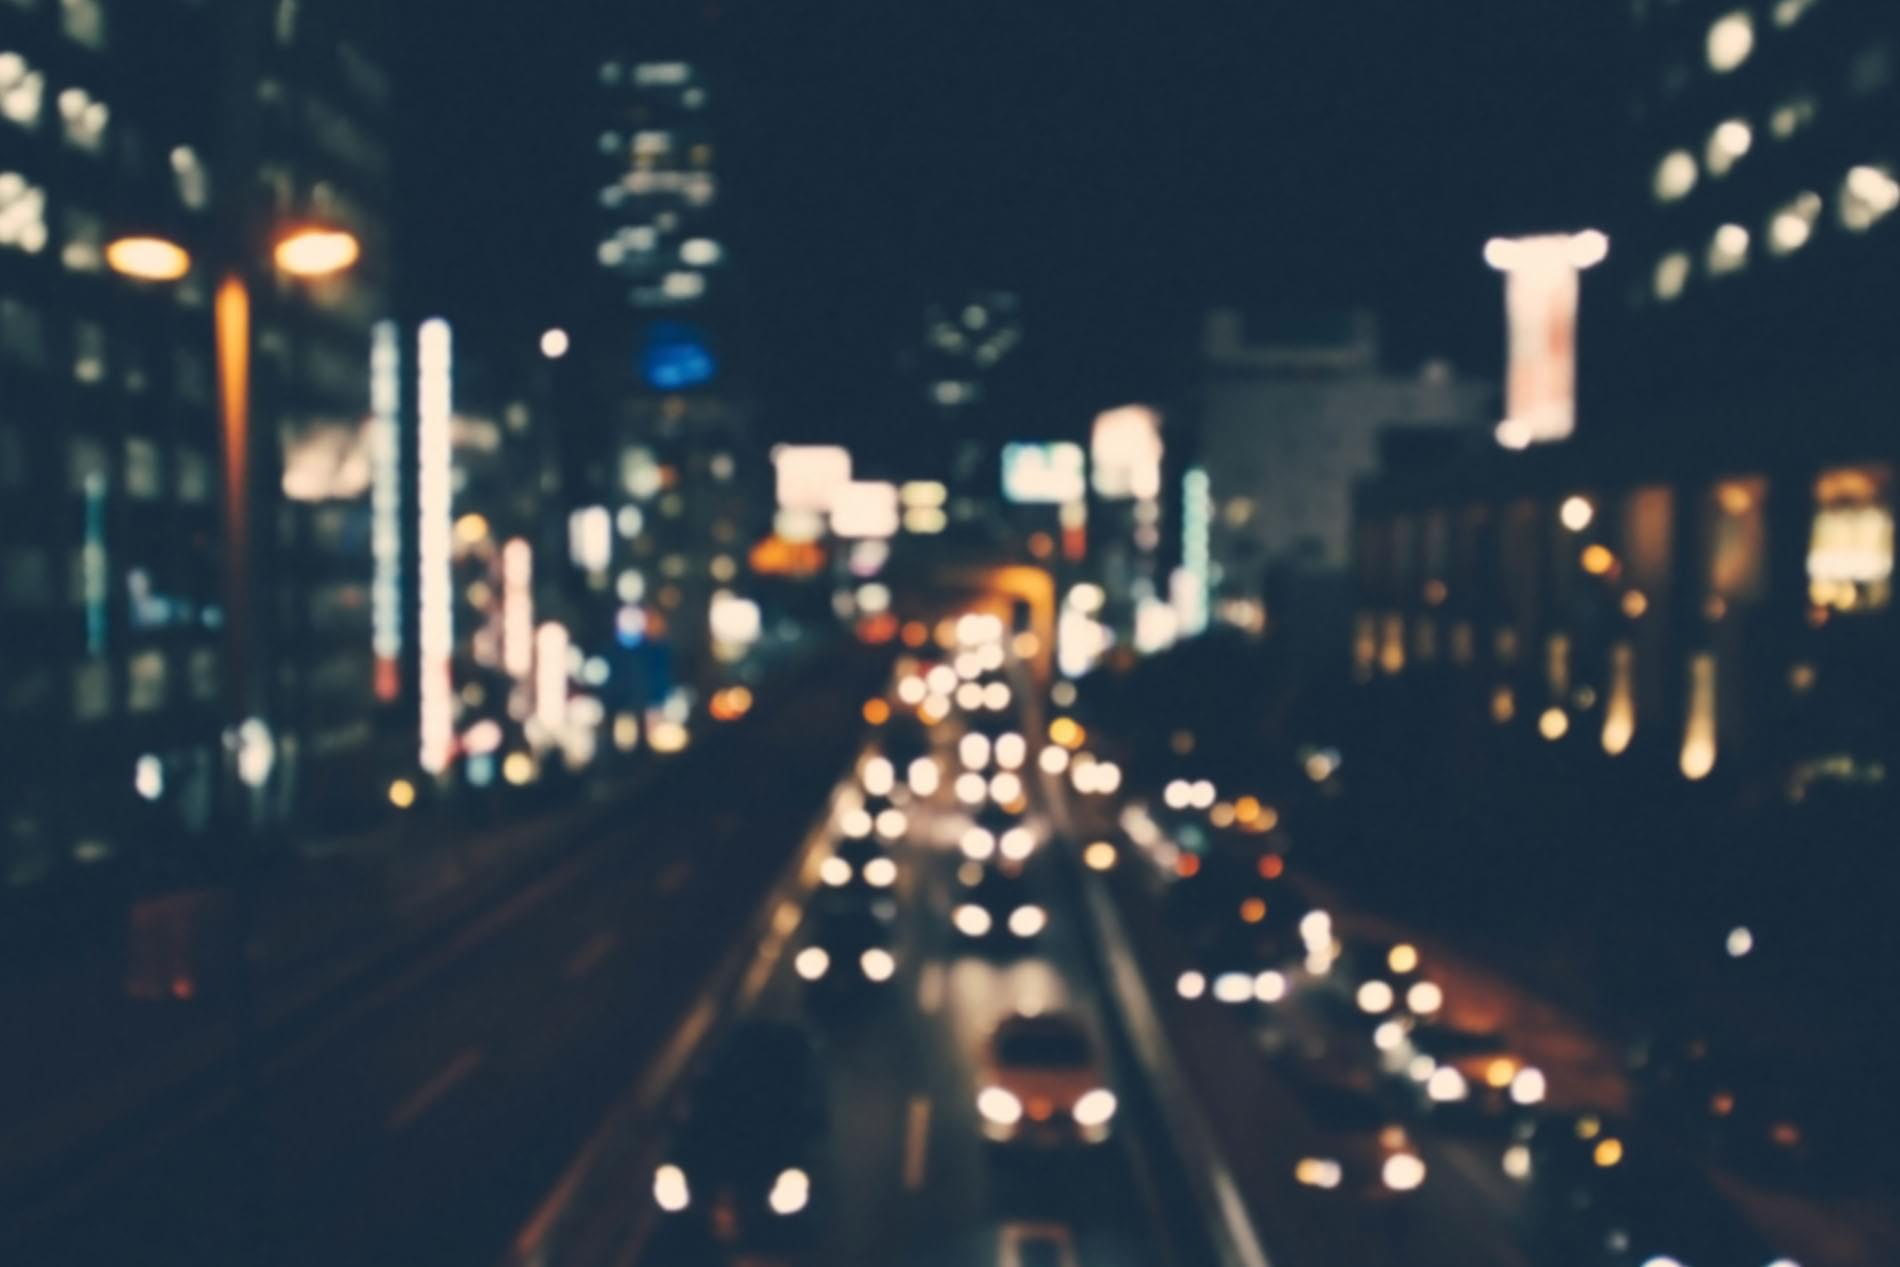
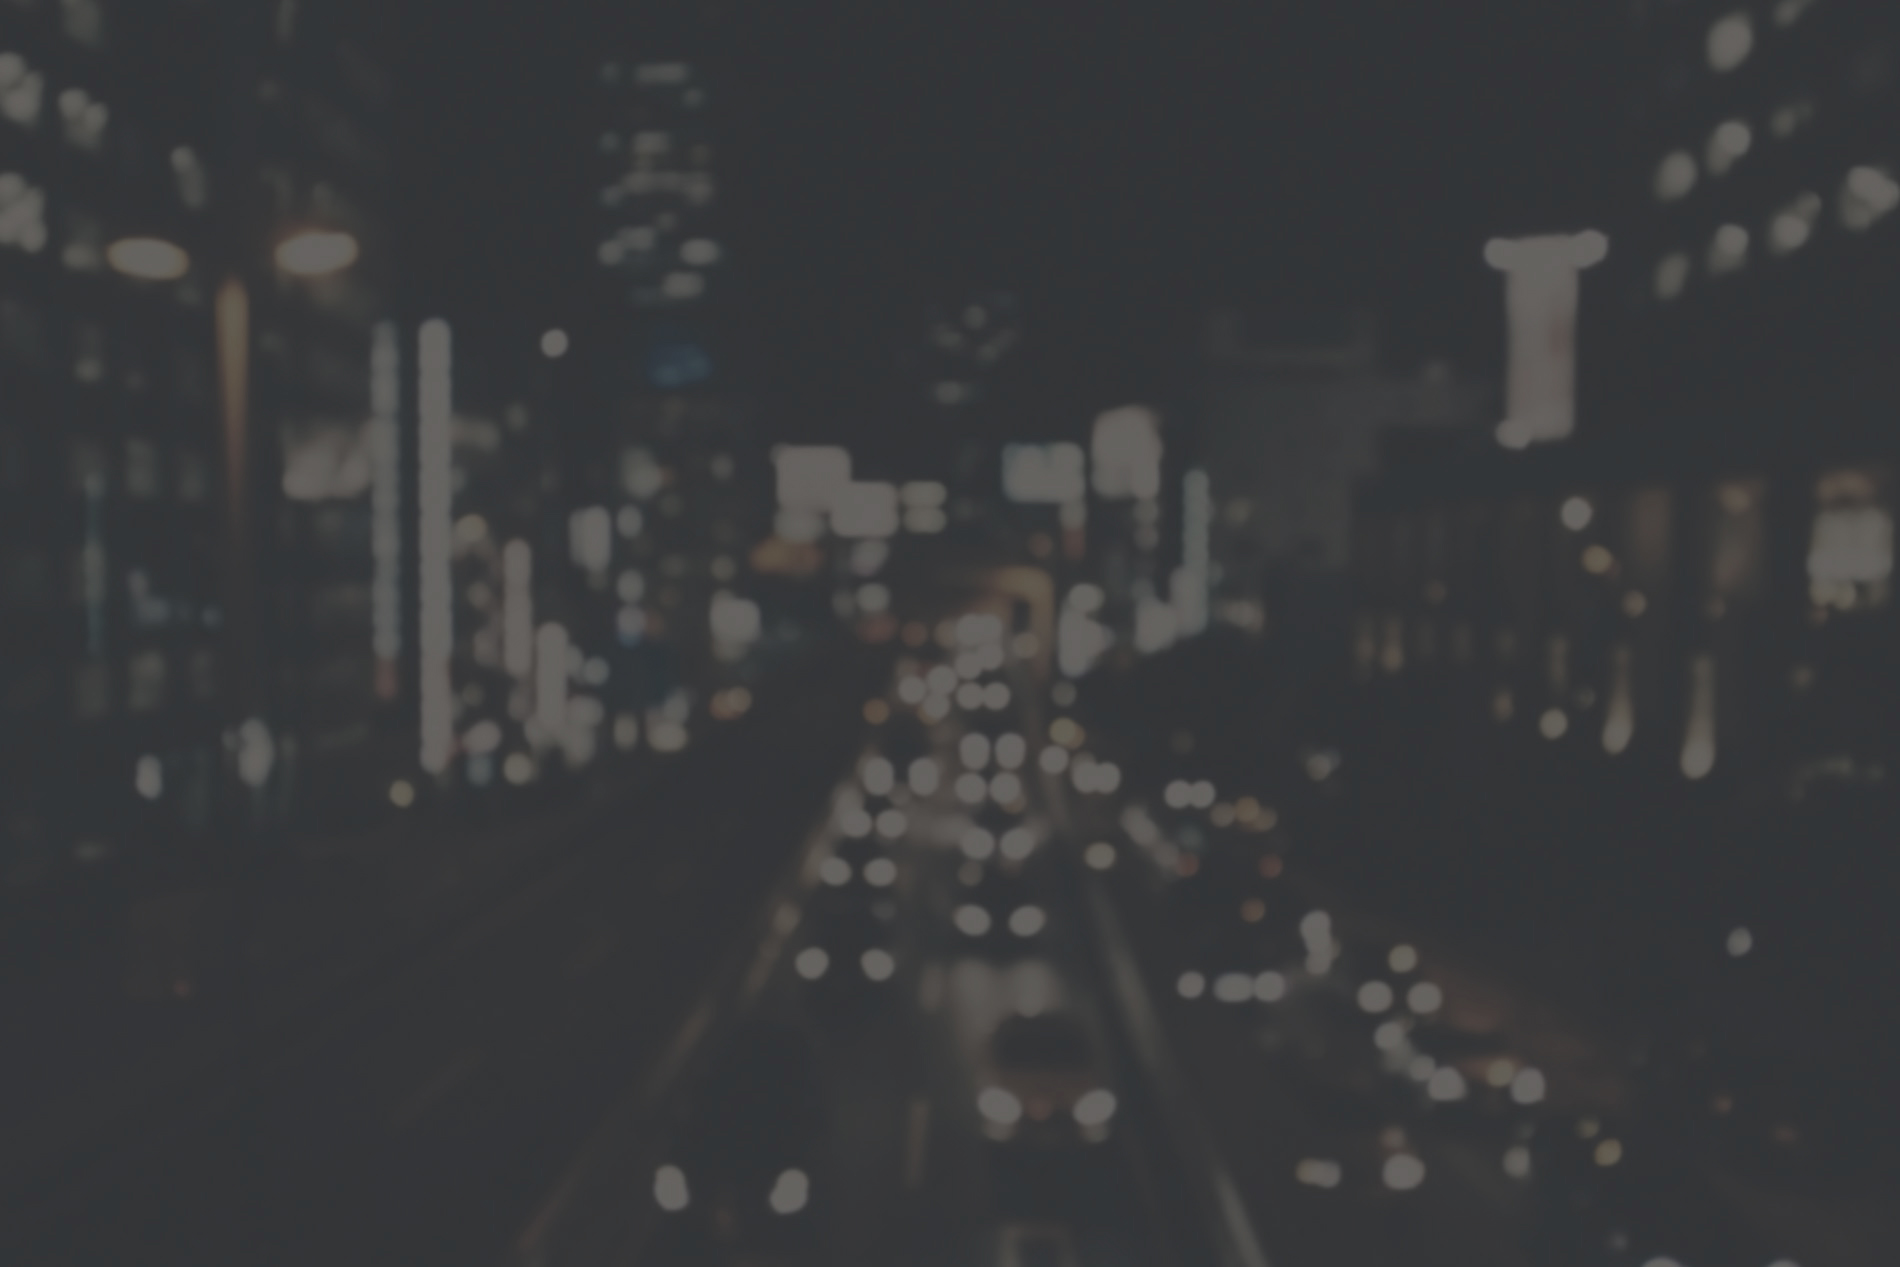
added header image to home page

diff --git a/public/css/frontend.rtl.css b/public/css/frontend.rtl.css
@@ -21,4 +21,4 @@
  * Load Awesome v1.1.0 (http://github.danielcardoso.net/load-awesome/)
  * Copyright 2015 Daniel Cardoso <@DanielCardoso>
  * Licensed under MIT
- */.la-ball-fall,.la-ball-fall>div{position:relative;box-sizing:border-box}.la-ball-fall{display:block;font-size:0;color:#fff}.la-ball-fall.la-dark{color:#333}.la-ball-fall>div{display:inline-block;float:none;background-color:currentColor;border:0 solid currentColor}.la-ball-fall{width:54px;height:18px}.la-ball-fall>div{width:10px;height:10px;margin:4px;border-radius:100%;opacity:0;-webkit-animation:p 1s ease-in-out infinite;animation:p 1s ease-in-out infinite}.la-ball-fall>div:first-child{-webkit-animation-delay:-.2s;animation-delay:-.2s}.la-ball-fall>div:nth-child(2){-webkit-animation-delay:-.1s;animation-delay:-.1s}.la-ball-fall>div:nth-child(3){-webkit-animation-delay:0ms;animation-delay:0ms}.la-ball-fall.la-sm{width:26px;height:8px}.la-ball-fall.la-sm>div{width:4px;height:4px;margin:2px}.la-ball-fall.la-2x{width:108px;height:36px}.la-ball-fall.la-2x>div{width:20px;height:20px;margin:8px}.la-ball-fall.la-3x{width:162px;height:54px}.la-ball-fall.la-3x>div{width:30px;height:30px;margin:12px}@-webkit-keyframes p{0%{opacity:0;-webkit-transform:translateY(-145%);transform:translateY(-145%)}10%{opacity:.5}20%{opacity:1;-webkit-transform:translateY(0);transform:translateY(0)}80%{opacity:1;-webkit-transform:translateY(0);transform:translateY(0)}90%{opacity:.5}to{opacity:0;-webkit-transform:translateY(145%);transform:translateY(145%)}}@keyframes p{0%{opacity:0;-webkit-transform:translateY(-145%);transform:translateY(-145%)}10%{opacity:.5}20%{opacity:1;-webkit-transform:translateY(0);transform:translateY(0)}80%{opacity:1;-webkit-transform:translateY(0);transform:translateY(0)}90%{opacity:.5}to{opacity:0;-webkit-transform:translateY(145%);transform:translateY(145%)}}.navbar{margin-bottom:0;transition:top .2s ease-in-out}@media (min-width:768px){.navbar{border:0;border-bottom:1px solid #dcdbdb;border-radius:0}}@media (min-width:768px){.navbar-nav>li:not(.open):hover{border-bottom:2px solid #00d1b2}.navbar-nav>li:not(.open):hover>a{padding-bottom:17px}}.profile-picture{max-height:300px;right:0;left:0;margin-right:auto;margin-left:auto}.navbar-logo{float:right;margin:5px 15px}.navbar-logo img{height:50px}.navbar.nav-up{top:-60px}.frontend-index .navbar{background-color:transparent;border:0}.frontend-index .navbar .navbar-nav>li>a,.frontend-index .navbar .navbar-text{color:#dcdbdb}.frontend-index .navbar .navbar-nav>li>a:focus,.frontend-index .navbar .navbar-nav>li>a:hover{color:#fff}.frontend-index .navbar .navbar-nav>.open>a,.frontend-index .navbar .navbar-nav>.open>a:focus,.frontend-index .navbar .navbar-nav>.open>a:hover{background-color:transparent}.frontend-index .container.messages{position:absolute;z-index:2;top:0;right:0;left:0;margin-right:auto;margin-left:auto;opacity:.9}header{min-height:auto;background-color:#393939;color:#fff;margin-bottom:22px}header,header .header-content{position:relative;width:100%;text-align:center}header .header-content{padding:100px 15px}header .header-content .header-content-inner h1{margin-top:0}@media (min-width:768px){header{min-height:100vh}header .header-content{position:absolute;top:50%;-webkit-transform:translateY(-50%);transform:translateY(-50%);padding:0 50px}header .header-content .header-content-inner{max-width:1000px;margin-right:auto;margin-left:auto}}
+ */.la-ball-fall,.la-ball-fall>div{position:relative;box-sizing:border-box}.la-ball-fall{display:block;font-size:0;color:#fff}.la-ball-fall.la-dark{color:#333}.la-ball-fall>div{display:inline-block;float:none;background-color:currentColor;border:0 solid currentColor}.la-ball-fall{width:54px;height:18px}.la-ball-fall>div{width:10px;height:10px;margin:4px;border-radius:100%;opacity:0;-webkit-animation:p 1s ease-in-out infinite;animation:p 1s ease-in-out infinite}.la-ball-fall>div:first-child{-webkit-animation-delay:-.2s;animation-delay:-.2s}.la-ball-fall>div:nth-child(2){-webkit-animation-delay:-.1s;animation-delay:-.1s}.la-ball-fall>div:nth-child(3){-webkit-animation-delay:0ms;animation-delay:0ms}.la-ball-fall.la-sm{width:26px;height:8px}.la-ball-fall.la-sm>div{width:4px;height:4px;margin:2px}.la-ball-fall.la-2x{width:108px;height:36px}.la-ball-fall.la-2x>div{width:20px;height:20px;margin:8px}.la-ball-fall.la-3x{width:162px;height:54px}.la-ball-fall.la-3x>div{width:30px;height:30px;margin:12px}@-webkit-keyframes p{0%{opacity:0;-webkit-transform:translateY(-145%);transform:translateY(-145%)}10%{opacity:.5}20%{opacity:1;-webkit-transform:translateY(0);transform:translateY(0)}80%{opacity:1;-webkit-transform:translateY(0);transform:translateY(0)}90%{opacity:.5}to{opacity:0;-webkit-transform:translateY(145%);transform:translateY(145%)}}@keyframes p{0%{opacity:0;-webkit-transform:translateY(-145%);transform:translateY(-145%)}10%{opacity:.5}20%{opacity:1;-webkit-transform:translateY(0);transform:translateY(0)}80%{opacity:1;-webkit-transform:translateY(0);transform:translateY(0)}90%{opacity:.5}to{opacity:0;-webkit-transform:translateY(145%);transform:translateY(145%)}}.navbar{margin-bottom:0;transition:top .2s ease-in-out}@media (min-width:768px){.navbar{border:0;border-bottom:1px solid #dcdbdb;border-radius:0}}@media (min-width:768px){.navbar-nav>li:not(.open):hover{border-bottom:2px solid #00d1b2}.navbar-nav>li:not(.open):hover>a{padding-bottom:17px}}.profile-picture{max-height:300px;right:0;left:0;margin-right:auto;margin-left:auto}.navbar-logo{float:right;margin:5px 15px}.navbar-logo img{height:50px}.navbar.nav-up{top:-60px}.frontend-index .navbar{background-color:transparent;border:0}.frontend-index .navbar .navbar-nav>li>a,.frontend-index .navbar .navbar-text{color:#dcdbdb}.frontend-index .navbar .navbar-nav>li>a:focus,.frontend-index .navbar .navbar-nav>li>a:hover{color:#fff}.frontend-index .navbar .navbar-nav>.open>a,.frontend-index .navbar .navbar-nav>.open>a:focus,.frontend-index .navbar .navbar-nav>.open>a:hover{background-color:transparent}.frontend-index .container.messages{position:absolute;z-index:2;top:0;right:0;left:0;margin-right:auto;margin-left:auto;opacity:.9}header{min-height:auto;background-color:#393939;background-image:url(/images/header.jpg?23c4b45e0dd06298b63ec2c175ecae58);background-position:50%;background-repeat:no-repeat;background-size:cover;color:#fff;margin-bottom:22px}header,header .header-content{position:relative;width:100%;text-align:center}header .header-content{padding:100px 15px}header .header-content .header-content-inner h1{margin-top:0}@media (min-width:768px){header{min-height:100vh}header .header-content{position:absolute;top:50%;-webkit-transform:translateY(-50%);transform:translateY(-50%);padding:0 50px}header .header-content .header-content-inner{max-width:1000px;margin-right:auto;margin-left:auto}}

diff --git a/public/css/frontend.css b/public/css/frontend.css
@@ -21,4 +21,4 @@
  * Load Awesome v1.1.0 (http://github.danielcardoso.net/load-awesome/)
  * Copyright 2015 Daniel Cardoso <@DanielCardoso>
  * Licensed under MIT
- */.la-ball-fall,.la-ball-fall>div{position:relative;box-sizing:border-box}.la-ball-fall{display:block;font-size:0;color:#fff}.la-ball-fall.la-dark{color:#333}.la-ball-fall>div{display:inline-block;float:none;background-color:currentColor;border:0 solid currentColor}.la-ball-fall{width:54px;height:18px}.la-ball-fall>div{width:10px;height:10px;margin:4px;border-radius:100%;opacity:0;-webkit-animation:p 1s ease-in-out infinite;animation:p 1s ease-in-out infinite}.la-ball-fall>div:first-child{-webkit-animation-delay:-.2s;animation-delay:-.2s}.la-ball-fall>div:nth-child(2){-webkit-animation-delay:-.1s;animation-delay:-.1s}.la-ball-fall>div:nth-child(3){-webkit-animation-delay:0ms;animation-delay:0ms}.la-ball-fall.la-sm{width:26px;height:8px}.la-ball-fall.la-sm>div{width:4px;height:4px;margin:2px}.la-ball-fall.la-2x{width:108px;height:36px}.la-ball-fall.la-2x>div{width:20px;height:20px;margin:8px}.la-ball-fall.la-3x{width:162px;height:54px}.la-ball-fall.la-3x>div{width:30px;height:30px;margin:12px}@-webkit-keyframes p{0%{opacity:0;-webkit-transform:translateY(-145%);transform:translateY(-145%)}10%{opacity:.5}20%{opacity:1;-webkit-transform:translateY(0);transform:translateY(0)}80%{opacity:1;-webkit-transform:translateY(0);transform:translateY(0)}90%{opacity:.5}to{opacity:0;-webkit-transform:translateY(145%);transform:translateY(145%)}}@keyframes p{0%{opacity:0;-webkit-transform:translateY(-145%);transform:translateY(-145%)}10%{opacity:.5}20%{opacity:1;-webkit-transform:translateY(0);transform:translateY(0)}80%{opacity:1;-webkit-transform:translateY(0);transform:translateY(0)}90%{opacity:.5}to{opacity:0;-webkit-transform:translateY(145%);transform:translateY(145%)}}.navbar{margin-bottom:0;transition:top .2s ease-in-out}@media (min-width:768px){.navbar{border:0;border-bottom:1px solid #dcdbdb;border-radius:0}}@media (min-width:768px){.navbar-nav>li:not(.open):hover{border-bottom:2px solid #00d1b2}.navbar-nav>li:not(.open):hover>a{padding-bottom:17px}}.profile-picture{max-height:300px;left:0;right:0;margin-left:auto;margin-right:auto}.navbar-logo{float:left;margin:5px 15px}.navbar-logo img{height:50px}.navbar.nav-up{top:-60px}.frontend-index .navbar{background-color:transparent;border:0}.frontend-index .navbar .navbar-nav>li>a,.frontend-index .navbar .navbar-text{color:#dcdbdb}.frontend-index .navbar .navbar-nav>li>a:focus,.frontend-index .navbar .navbar-nav>li>a:hover{color:#fff}.frontend-index .navbar .navbar-nav>.open>a,.frontend-index .navbar .navbar-nav>.open>a:focus,.frontend-index .navbar .navbar-nav>.open>a:hover{background-color:transparent}.frontend-index .container.messages{position:absolute;z-index:2;top:0;left:0;right:0;margin-left:auto;margin-right:auto;opacity:.9}header{min-height:auto;background-color:#393939;color:#fff;margin-bottom:22px}header,header .header-content{position:relative;width:100%;text-align:center}header .header-content{padding:100px 15px}header .header-content .header-content-inner h1{margin-top:0}@media (min-width:768px){header{min-height:100vh}header .header-content{position:absolute;top:50%;-webkit-transform:translateY(-50%);transform:translateY(-50%);padding:0 50px}header .header-content .header-content-inner{max-width:1000px;margin-left:auto;margin-right:auto}}
+ */.la-ball-fall,.la-ball-fall>div{position:relative;box-sizing:border-box}.la-ball-fall{display:block;font-size:0;color:#fff}.la-ball-fall.la-dark{color:#333}.la-ball-fall>div{display:inline-block;float:none;background-color:currentColor;border:0 solid currentColor}.la-ball-fall{width:54px;height:18px}.la-ball-fall>div{width:10px;height:10px;margin:4px;border-radius:100%;opacity:0;-webkit-animation:p 1s ease-in-out infinite;animation:p 1s ease-in-out infinite}.la-ball-fall>div:first-child{-webkit-animation-delay:-.2s;animation-delay:-.2s}.la-ball-fall>div:nth-child(2){-webkit-animation-delay:-.1s;animation-delay:-.1s}.la-ball-fall>div:nth-child(3){-webkit-animation-delay:0ms;animation-delay:0ms}.la-ball-fall.la-sm{width:26px;height:8px}.la-ball-fall.la-sm>div{width:4px;height:4px;margin:2px}.la-ball-fall.la-2x{width:108px;height:36px}.la-ball-fall.la-2x>div{width:20px;height:20px;margin:8px}.la-ball-fall.la-3x{width:162px;height:54px}.la-ball-fall.la-3x>div{width:30px;height:30px;margin:12px}@-webkit-keyframes p{0%{opacity:0;-webkit-transform:translateY(-145%);transform:translateY(-145%)}10%{opacity:.5}20%{opacity:1;-webkit-transform:translateY(0);transform:translateY(0)}80%{opacity:1;-webkit-transform:translateY(0);transform:translateY(0)}90%{opacity:.5}to{opacity:0;-webkit-transform:translateY(145%);transform:translateY(145%)}}@keyframes p{0%{opacity:0;-webkit-transform:translateY(-145%);transform:translateY(-145%)}10%{opacity:.5}20%{opacity:1;-webkit-transform:translateY(0);transform:translateY(0)}80%{opacity:1;-webkit-transform:translateY(0);transform:translateY(0)}90%{opacity:.5}to{opacity:0;-webkit-transform:translateY(145%);transform:translateY(145%)}}.navbar{margin-bottom:0;transition:top .2s ease-in-out}@media (min-width:768px){.navbar{border:0;border-bottom:1px solid #dcdbdb;border-radius:0}}@media (min-width:768px){.navbar-nav>li:not(.open):hover{border-bottom:2px solid #00d1b2}.navbar-nav>li:not(.open):hover>a{padding-bottom:17px}}.profile-picture{max-height:300px;left:0;right:0;margin-left:auto;margin-right:auto}.navbar-logo{float:left;margin:5px 15px}.navbar-logo img{height:50px}.navbar.nav-up{top:-60px}.frontend-index .navbar{background-color:transparent;border:0}.frontend-index .navbar .navbar-nav>li>a,.frontend-index .navbar .navbar-text{color:#dcdbdb}.frontend-index .navbar .navbar-nav>li>a:focus,.frontend-index .navbar .navbar-nav>li>a:hover{color:#fff}.frontend-index .navbar .navbar-nav>.open>a,.frontend-index .navbar .navbar-nav>.open>a:focus,.frontend-index .navbar .navbar-nav>.open>a:hover{background-color:transparent}.frontend-index .container.messages{position:absolute;z-index:2;top:0;left:0;right:0;margin-left:auto;margin-right:auto;opacity:.9}header{min-height:auto;background-color:#393939;background-image:url(/images/header.jpg?23c4b45e0dd06298b63ec2c175ecae58);background-position:50%;background-repeat:no-repeat;background-size:cover;color:#fff;margin-bottom:22px}header,header .header-content{position:relative;width:100%;text-align:center}header .header-content{padding:100px 15px}header .header-content .header-content-inner h1{margin-top:0}@media (min-width:768px){header{min-height:100vh}header .header-content{position:absolute;top:50%;-webkit-transform:translateY(-50%);transform:translateY(-50%);padding:0 50px}header .header-content .header-content-inner{max-width:1000px;margin-left:auto;margin-right:auto}}

diff --git a/resources/assets/sass/frontend/styles.scss b/resources/assets/sass/frontend/styles.scss
@@ -65,6 +65,10 @@ Header
  header {
   min-height: auto;
   background-color: #393939;
+  background-image: url("img/header.jpg");
+  background-position: center center;
+  background-repeat: no-repeat;
+  background-size: cover;
   color: #fff;
   position: relative;
   width: 100%;
